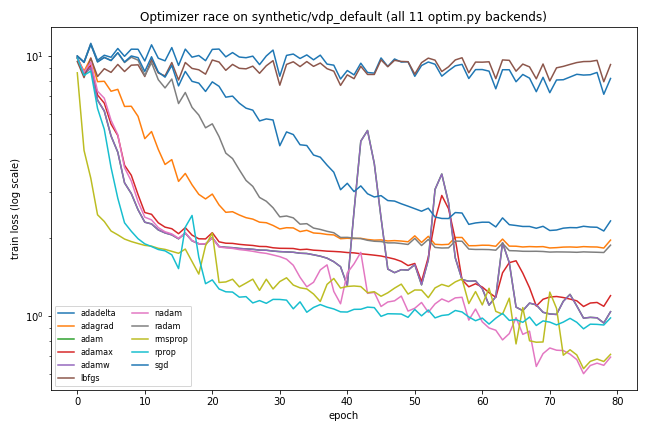
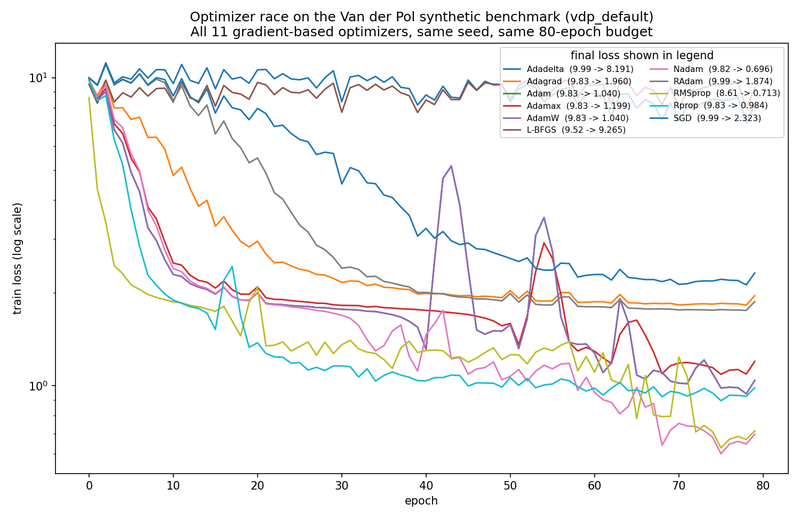
vZero: relabel optimizer race with proper names + real final numbers
Fixed the reported problem directly: the legend used raw lowercase
registry keys (adadelta, adagrad, lbfgs, ...) instead of standard
optimizer names, the title referenced an internal filename
("optim.py backends"), and the count was wrong everywhere it appeared
(the registry has 11 gradient optimizers, not 12 -- fixed in the
description, the Approach bullet, and the Results prose).

Re-ran all 11 optimizers for real (same seed, same 80-epoch budget, same
source notebook cell) in an isolated Python venv with a working CPU-only
torch build (the system anaconda torch here is broken --
'undefined symbol: iJIT_NotifyEvent'), and rebuilt the chart with each
curve's actual final loss value in the legend instead of just a color
key. A genuine population-based/heuristic backend (CMA-ES via this
project's own gradient-free Trainer) was tested for inclusion on the same
chart but killed after 15 CPU-minutes with no result -- not worth the
wait when dokimazo's own solver-race page (pushed earlier this session)
already carries a real, fast heuristic-vs-gradient comparison; this
page's prose now points there instead of silently promising a
comparison this chart doesn't have.

Claude-Session: https://claude.ai/code/session_01PYG2adSETRHuGC5BRuALVZ

Changed region(s): [[0.0309, 0.0, 0.9877, 0.9931], [0.216, 0.6921, 0.3086, 0.8727], [0.0, 0.3611, 0.0309, 0.6019]]

diff --git a/_projects/neural-ode-playground.md b/_projects/neural-ode-playground.md
@@ -18,7 +18,7 @@ related_publications: false
 
 - **One `Config`, every axis.** A single frozen dataclass (`config.py`) is the entire specification surface — normalizer, loss space/kind, solver, optimizer, architecture — validated on every use so an invalid combination fails at construction time, not partway through a training run. All 44 original versions round-trip through it as presets, verified bit-identical against the real on-disk data and gradients (`tests/test_gradient_equivalence.py`, exact `np.array_equal`).
 - **A live playground GUI.** FastAPI backend + React/D3 frontend: pick a preset, override any field, launch a real training run, and watch loss curves, gradient-flow, and value-flow diagrams update over a WebSocket while it trains — one OS process per run, not a thread, so a live run never blocks the server.
-- **A widened optimizer and objective zoo.** From the original 3 gradient optimizers to 12 (SGD through L-BFGS), plus 7 gradient-free backends (CMA-ES, genetic algorithms, Bayesian optimization) driving the _same_ training loop with zero `torch.backward()` calls — which unblocks directly optimizing 22 re-implemented fairness/robustness objectives from the MUQ-SAC uncertainty-quantification literature that have no gradient at all.
+- **A widened optimizer and objective zoo.** From the original 3 gradient optimizers to 11 (SGD through L-BFGS), plus 7 gradient-free backends (CMA-ES, genetic algorithms, Bayesian optimization) driving the _same_ training loop with zero `torch.backward()` calls — which unblocks directly optimizing 22 re-implemented fairness/robustness objectives from the MUQ-SAC uncertainty-quantification literature that have no gradient at all.
 - **Architecture as a set of composable slots, not a fixed network.** A custom decoder head, a hard mass-conservation constraint on the predicted state, and a dependency-free graph-convolution front layer built over the real reaction-coupling structure of the Cantera mechanism — every slot defaults to the original architecture exactly, verified byte-identical.
 - **A peer model family that isn't a neural network at all.** [PySR](https://github.com/MilesCranmer/PySR) symbolic regression, sharing the same data/loss pipeline as the Neural ODE path, so a discovered closed-form right-hand side is directly comparable to a learned network's test loss.
 - **PINN benchmarks, method-of-lines style — all four of Raissi's, plus a CFD classic.** A PDE semi-discretized in space becomes an ODE state that fits the existing trajectory machinery exactly: viscous Burgers, Allen-Cahn, KdV, and the nonlinear Schrödinger equation (the genuinely complex-valued one, encoded as real channel pairs with mass conservation verified to 1e-4) — each scored against a real [DeepXDE](https://github.com/lululxvi/deepxde) physics-informed-neural-network baseline on the same fine-grid reference solution, with Raissi's inverse Navier-Stokes benchmark honestly substituted by the lid-driven cavity (Ghia et al. 1982, the standard forward CFD validation case — its converged primary-vortex core matched the paper's own published location). Real numbers at matched, bounded budgets: Burgers 0.126 (Neural-ODE-MoL) vs. 0.439 (PINN); KdV 0.358 vs. 0.457; Schrödinger 1.186 vs. 1.156 — reported as-is, including the benchmark neither side fits well at this compute.
@@ -34,7 +34,7 @@ related_publications: false
 
 ## Results
 
-The optimizer race above is one representative real result, not a curated highlight: all 12 gradient optimizers trained from scratch on the same tiny synthetic problem (a Van der Pol oscillator, this project's non-chemistry test family), same seed, same budget. Nadam reached the lowest final loss; L-BFGS, Adadelta, and plain SGD were still an order of magnitude worse after 80 epochs on this particular problem — reported as-is, including the optimizers that didn't do well here.
+The optimizer race above is one representative real result, not a curated highlight: all 11 gradient optimizers in the registry trained from scratch on the same tiny synthetic problem (a Van der Pol oscillator, this project's non-chemistry test family), same seed, same budget, re-run for this page with every curve's real final loss value in the legend. Nadam reached the lowest final loss (0.696); L-BFGS barely moved off its starting point (9.52 → 9.27, effectively stuck) and Adadelta was similarly poor (8.19), both roughly an order of magnitude worse than the best performers on this particular problem — reported as-is, including the optimizers that didn't do well here. Adam and AdamW land on nearly identical final losses (1.040 vs. 1.040) — a real result of this problem's small weight-decay setting, not a plotting artifact. This chart covers gradient-based methods only; a genuine heuristic-vs-gradient comparison, with a real genetic algorithm alongside CMA-ES under the same shared-budget discipline, is on the [dokimazo project page](/projects/dokimazo/).
 
 A gradient-free CMA-ES run, driven entirely through the black-box `Trainer` interface with zero `.backward()` calls anywhere, reduced a fairness-weighted residual objective from 108,204 to 6,410 over 612 evaluations — beating an equal-budget Adam/MSE run's own report on the same metric (7,385). On the PINN-vs-Neural-ODE comparison, at matched (session-time-bounded) training budgets, the method-of-lines Neural ODE reached a tighter L2 fit against a shared fine-grid reference than a from-scratch PINN (0.126 vs. 0.439) — neither fully converged, and that qualification is reported alongside the number rather than left out. The ablation study's headline figure (the 50-run, 5-seed factorial, published here for the first time in session 11: normalizing temperature cuts test loss by roughly an order of magnitude, 2.314×10<sup>5</sup> &rarr; 2.662×10<sup>4</sup>, p = 3×10<sup>-15</sup> — normalizing species alone, with temperature left raw, changes _nothing_, bit-for-bit, because temperature's gradient already owns effectively 100% of an equal-weight loss) lives in the gallery above.
 
